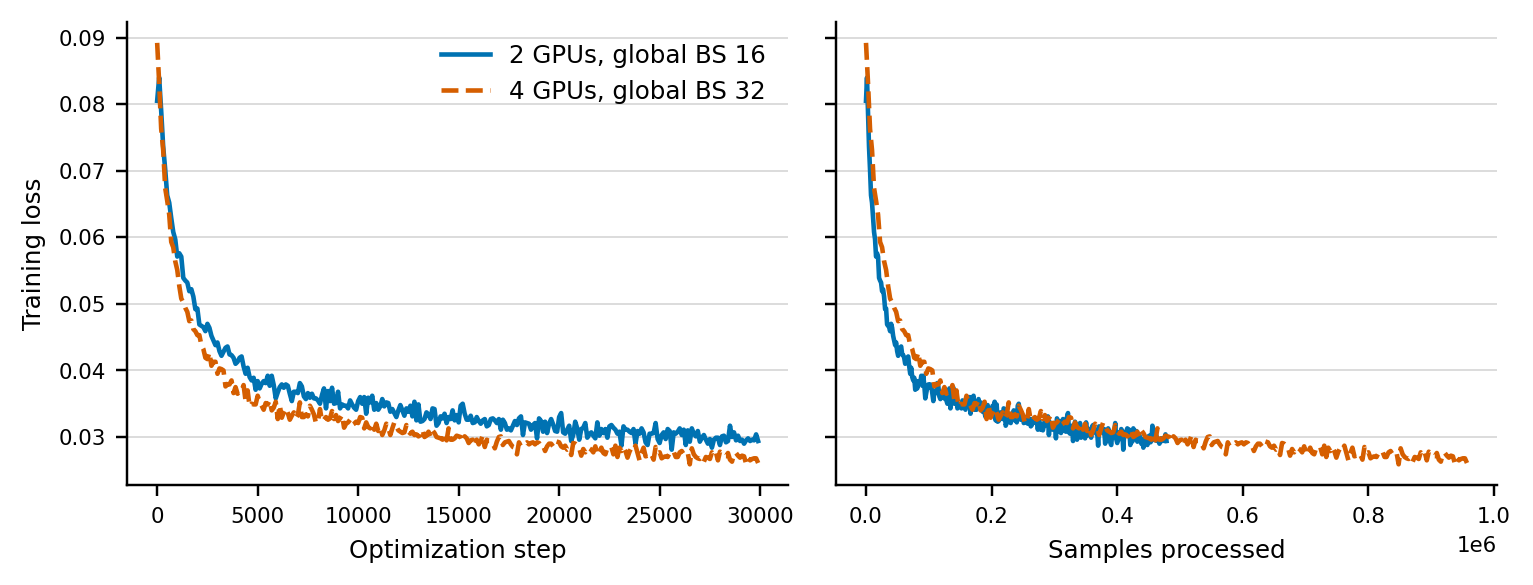
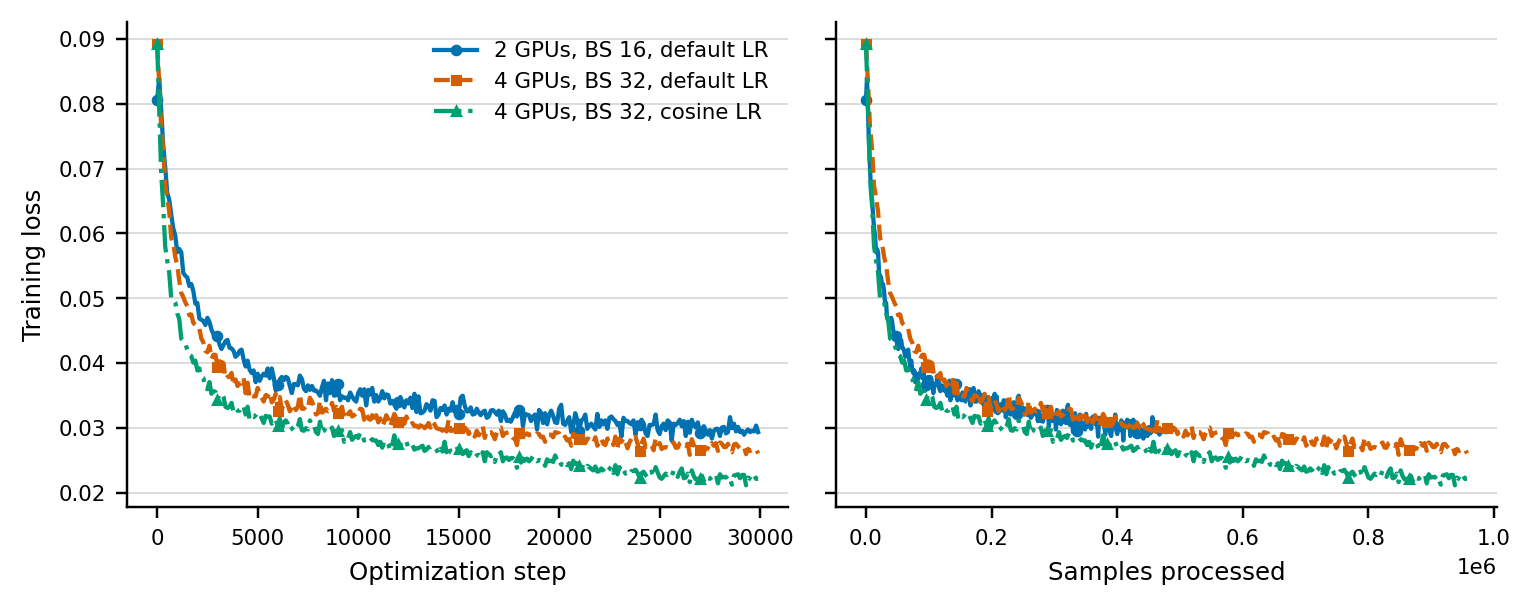
feat: compare cosine training loss

Changed region(s): [[0.0, 0.0615, 0.9811, 0.9538], [0.6745, 0.9231, 0.8278, 0.9538], [0.5519, 0.0615, 0.5825, 0.0923]]

diff --git a/scripts/plot_training_loss.py b/scripts/plot_training_loss.py
@@ -14,6 +14,7 @@ def parse_args() -> argparse.Namespace:
     parser = argparse.ArgumentParser()
     parser.add_argument("--two-gpu-log", type=pathlib.Path, required=True)
     parser.add_argument("--four-gpu-log", type=pathlib.Path, required=True)
+    parser.add_argument("--four-gpu-cosine-log", type=pathlib.Path, required=True)
     parser.add_argument("--output", type=pathlib.Path, required=True)
     return parser.parse_args()
 
@@ -27,11 +28,13 @@ def read_loss(log_path: pathlib.Path) -> tuple[list[int], list[float]]:
 def plot_loss(
     two_gpu_log: pathlib.Path,
     four_gpu_log: pathlib.Path,
+    four_gpu_cosine_log: pathlib.Path,
     output: pathlib.Path,
 ) -> None:
     """Plots losses by optimization step and samples processed."""
     two_gpu_steps, two_gpu_losses = read_loss(two_gpu_log)
     four_gpu_steps, four_gpu_losses = read_loss(four_gpu_log)
+    cosine_steps, cosine_losses = read_loss(four_gpu_cosine_log)
 
     plt.rcParams.update(
         {
@@ -44,16 +47,26 @@ def plot_loss(
             "ps.fonttype": 42,
         }
     )
-    fig, axes = plt.subplots(1, 2, figsize=(7.0, 2.7), sharey=True)
+    fig, axes = plt.subplots(1, 2, figsize=(7.0, 2.8), sharey=True)
     series = (
-        (two_gpu_steps, two_gpu_losses, 16, "2 GPUs, global BS 16", "#0072B2", "-"),
-        (four_gpu_steps, four_gpu_losses, 32, "4 GPUs, global BS 32", "#D55E00", "--"),
+        (two_gpu_steps, two_gpu_losses, 16, "2 GPUs, BS 16, default LR", "#0072B2", "-", "o"),
+        (four_gpu_steps, four_gpu_losses, 32, "4 GPUs, BS 32, default LR", "#D55E00", "--", "s"),
+        (cosine_steps, cosine_losses, 32, "4 GPUs, BS 32, cosine LR", "#009E73", "-.", "^"),
     )
 
-    for steps, losses, batch_size, label, color, line_style in series:
-        axes[0].plot(steps, losses, label=label, color=color, linestyle=line_style, linewidth=1.5)
+    for steps, losses, batch_size, label, color, line_style, marker in series:
+        plot_kwargs = {
+            "color": color,
+            "label": label,
+            "linestyle": line_style,
+            "linewidth": 1.4,
+            "marker": marker,
+            "markevery": 30,
+            "markersize": 2.8,
+        }
+        axes[0].plot(steps, losses, **plot_kwargs)
         samples = [step * batch_size for step in steps]
-        axes[1].plot(samples, losses, label=label, color=color, linestyle=line_style, linewidth=1.5)
+        axes[1].plot(samples, losses, **plot_kwargs)
 
     axes[0].set_xlabel("Optimization step")
     axes[1].set_xlabel("Samples processed")
@@ -61,7 +74,7 @@ def plot_loss(
     for axis in axes:
         axis.grid(axis="y", color="#D9D9D9", linewidth=0.6)
         axis.spines[["top", "right"]].set_visible(False)
-    axes[0].legend(frameon=False)
+    axes[0].legend(frameon=False, fontsize=7)
 
     output.parent.mkdir(parents=True, exist_ok=True)
     fig.tight_layout()
@@ -73,7 +86,7 @@ def plot_loss(
 def main() -> None:
     """Runs the loss plotting command."""
     args = parse_args()
-    plot_loss(args.two_gpu_log, args.four_gpu_log, args.output)
+    plot_loss(args.two_gpu_log, args.four_gpu_log, args.four_gpu_cosine_log, args.output)
 
 
 if __name__ == "__main__":
